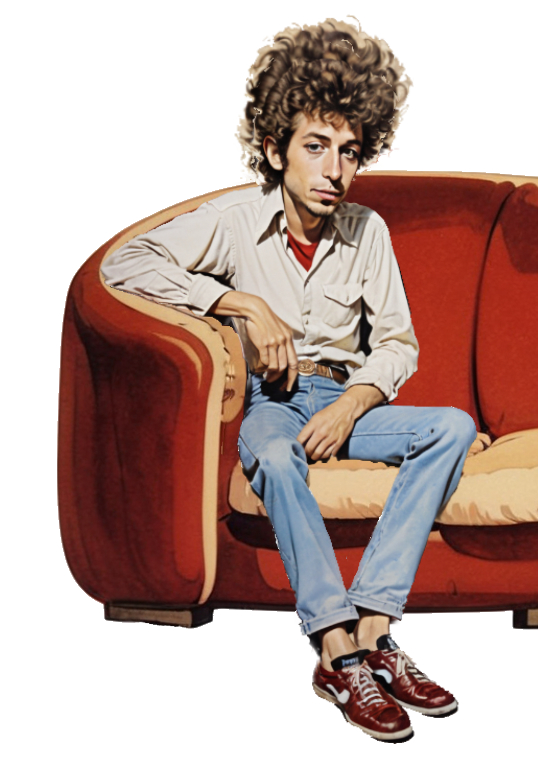
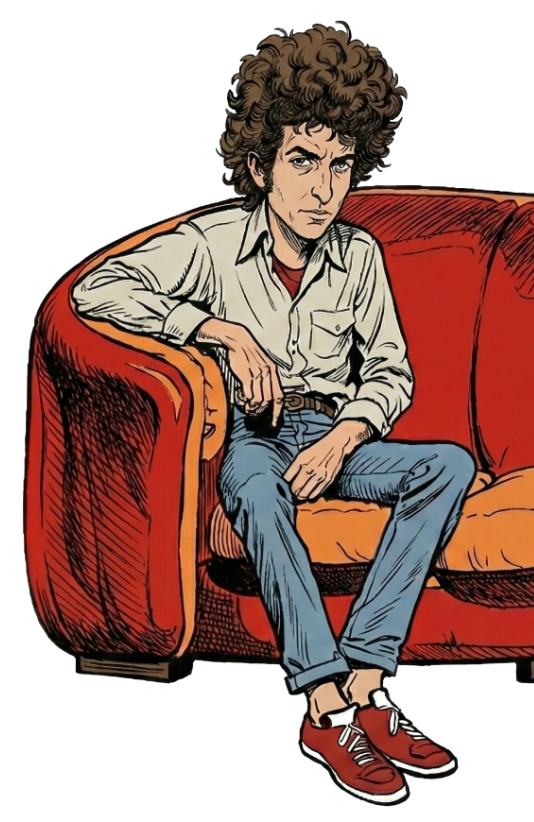
Updated artwork and movie poster version

diff --git a/README.md b/README.md
@@ -7,15 +7,15 @@ I discuss how the illustration reflects the key components of the song,
 discuss each of the various characters individually,
 and tell how the project was conceived and carried out.
 
-![Ballad of a Thin Man, © Paul Pritchard, 2023](Ballad_of_a_Thin_Man_medium.jpg)
+![Ballad of a Thin Man, © Paul Pritchard, 2026](Ballad_of_a_Thin_Man_medium.jpg)
 
 ## The setting
 
 The setting for the illustration is a party at [Andy Warhol's Factory](https://en.wikipedia.org/wiki/The_Factory)
 in New York City in the mid-1960s.
-The Factory was decorated in meth chic style, with walls covered in tin-foil and broken mirrors and Warhol's prints displayed on them,
+The Factory was decorated in meth chic style, with silver paint and tin-foil and mirrors,  Warhol's prints displayed on the walls,
 and a distinctive shabby curved red velvet couch.
-(The Factory's floor was concrete; I've used artistic license to have floorboards instead.)
+The Factory's floor was concrete.
 
 ## The song
 
@@ -73,7 +73,7 @@ His name is Martin Scorsese.
 
 ### Bob Dylan
 
-<img src="image/Bob_Dylan.jpg" align="left" width="150px" style="margin: 0px 10px 0px 0px;">
+<img src="image/Bob_Dylan.jpg" align="left" width="200px" style="margin: 0px 10px 0px 0px;">
 
 [Bob Dylan](https://en.wikipedia.org/wiki/Bob_Dylan) was born in 1941.
 He moved to New York City in 1961 to join the burgeoning folk scene.
@@ -87,7 +87,7 @@ In 2016, Dylan was awarded the Nobel Prize in Literature.
 
 ### Andy Warhol
 
-<img src="image/Andy_Warhol.jpg" align="left" width="150px" style="margin: 0px 10px 0px 0px;">
+<img src="image/Andy_Warhol.jpg" align="left" width="200px" style="margin: 0px 10px 0px 0px;">
 
 [Andy Warhol](https://en.wikipedia.org/wiki/Andy_Warhol) was born in 1928.
 He moved to New York City in 1949, and transitioned from being a commercial artist to a fine artist concentrating on printmaking,
@@ -100,18 +100,18 @@ Warhol died in 1987.
 
 ### Woody Allen
 
-<img src="image/Woody_Allen.jpg" align="left" width="150px" style="margin: 0px 10px 0px 0px;">
+<img src="image/Woody_Allen.jpg" align="left" width="200px" style="margin: 0px 10px 0px 0px;">
 
 [Woody Allen](https://en.wikipedia.org/wiki/Woody_Allen) was born in 1935, and is a native New Yorker.
 He started work writing comedy for tv and magazines, then did standup comedy,
 and then wrote, directed, and starred in movies from the late 1960s, for which he won many prestigious awards.
 His comedy persona was that of an anxious, insecure, intellectual nebbish, perfect for Mr Jones.
-At the age of 61 he married his partner's adopted daughter. They are still together.
+At the age of 61 he married his daughter. They are still together.
 <br clear="left">
 
 ### Albert Grossman
 
-<img src="image/Albert_Grossman.jpg" align="left" width="150px" style="margin: 0px 10px 0px 0px;">
+<img src="image/Albert_Grossman.jpg" align="left" width="200px" style="margin: 0px 10px 0px 0px;">
 
 [Albert Grossman](https://en.wikipedia.org/wiki/Albert_Grossman) was born in 1926.
 Bob Dylan was the most famous of many significant musical artists that he managed.
@@ -121,7 +121,7 @@ Grossman died in 1986, while flying on a Concorde.
 
 ### Leonard Bernstein
 
-<img src="image/Leonard_Bernstein.jpg" align="left" width="150px" style="margin: 0px 10px 0px 0px;">
+<img src="image/Leonard_Bernstein.jpg" align="left" width="200px" style="margin: 0px 10px 0px 0px;">
 
 [Leonard Bernstein](https://en.wikipedia.org/wiki/Leonard_Bernstein) was born in 1918.
 He moved to New York City in 1941, and lived there the rest of his life.
@@ -132,7 +132,7 @@ He died in 1990.
 
 ### Paul Simon
 
-<img src="image/Paul_Simon.jpg" align="left" width="150px" style="margin: 0px 10px 0px 0px;">
+<img src="image/Paul_Simon.jpg" align="left" width="200px" style="margin: 0px 10px 0px 0px;">
 
 [Paul Simon](https://en.wikipedia.org/wiki/Paul_Simon) was born in 1941, the same year as Bob Dylan.
 He is also considered one of the greatest singer-songwriters of his time, and has received numerous prestigious awards.
@@ -142,7 +142,7 @@ He claims to be 5 foot 3 inches.
 
 ### Joe Dallesandro
 
-<img src="image/Joe_Dallesandro.jpg" align="left" width="150px" style="margin: 0px 10px 0px 0px;">
+<img src="image/Joe_Dallesandro.jpg" align="left" width="200px" style="margin: 0px 10px 0px 0px;">
 
 [Joe Dallesandro](https://en.wikipedia.org/wiki/Joe_Dallesandro) was a nude model and Warhol "superstar" who appeared
 in several of Warhol's movies, such as the aptly titled *Flesh* and *Trash*.
@@ -154,7 +154,7 @@ This is disputed.
 
 ### Divine
 
-<img src="image/Divine.jpg" align="left" width="150px" style="margin: 0px 10px 0px 0px;">
+<img src="image/Divine.jpg" align="left" width="200px" style="margin: 0px 10px 0px 0px;">
 
 [Divine](https://en.wikipedia.org/wiki/Divine_(performer)) was the stage name of the drag queen alter ego of Harris Glenn Milstead.
 He was born in 1945, in Baltimore, where he became closely assocaited with the director John Waters, acting in many of his movies,
@@ -166,7 +166,7 @@ Here he stands in for someone who would not be out of place at a Warhol Factory 
 
 ### Robert Mapplethorpe
 
-<img src="image/Robert_Mapplethorpe.jpg" align="left" width="150px" style="margin: 0px 10px 0px 0px;">
+<img src="image/Robert_Mapplethorpe.jpg" align="left" width="200px" style="margin: 0px 10px 0px 0px;">
 
 [Robert Mapplethorpe](https://en.wikipedia.org/wiki/Robert_Mapplethorpe) was born in New York City in 1946.
 He was an art photographer best known for his black and white flower studies and controversial portraits documenting the gay kink scene.
@@ -177,7 +177,7 @@ He died in 1989.
 
 ### Patti Smith
 
-<img src="image/Patti_Smith.jpg" align="left" width="150px" style="margin: 0px 10px 0px 0px;">
+<img src="image/Patti_Smith.jpg" align="left" width="200px" style="margin: 0px 10px 0px 0px;">
 
 [Patti Smith](https://en.wikipedia.org/wiki/Patti_Smith) was also born in 1946.
 She moved to New York City in 1967, where she was a poet and performance artist, eventually morphing into a renowned rock singer.
@@ -187,7 +187,7 @@ She accepted the Nobel Prize for Literature on behalf of Bob Dylan.
 
 ### Lou Reed
 
-<img src="image/Lou_Reed.jpg" align="left" width="150px" style="margin: 0px 10px 0px 0px;">
+<img src="image/Lou_Reed.jpg" align="left" width="200px" style="margin: 0px 10px 0px 0px;">
 
 [Lou Reed](https://en.wikipedia.org/wiki/Lou_Reed) was born in 1942, and was a native New Yorker.
 He founded the famously influential band *The Velvet Underground* in 1965.
@@ -198,7 +198,7 @@ He died in 2013.
 
 ### Rico "Ratso" Rizzo
 
-<img src="image/Rico_Rizzo.jpg" align="left" width="150px" style="margin: 0px 10px 0px 0px;">
+<img src="image/Rico_Rizzo.jpg" align="left" width="200px" style="margin: 0px 10px 0px 0px;">
 
 Enrico Salvatore Rizzo was a fictional character, a sickly Italian-American low-life New York City hustler,
 in the movie *Midnight Cowboy* (1969).
@@ -209,7 +209,7 @@ Rico dies on a Greyhound bus on the way to Florida, in the arms of ...
 
 ### Joe Buck
 
-<img src="image/Joe_Buck.jpg" align="left" width="150px" style="margin: 0px 10px 0px 0px;">
+<img src="image/Joe_Buck.jpg" align="left" width="200px" style="margin: 0px 10px 0px 0px;">
 
 Joe Buck was a fictional character, a handsome young Texan self-declared stud, who moved to New York City as a male prostitute,
 in the movie *Midnight Cowboy* (1969).
@@ -218,7 +218,7 @@ He was played by [Jon Voight](https://en.wikipedia.org/wiki/Jon_Voight).
 
 ### Martin Scorsese
 
-<img src="image/Martin_Scorsese.jpg" align="left" width="150px" style="margin: 0px 10px 0px 0px;">
+<img src="image/Martin_Scorsese.jpg" align="left" width="200px" style="margin: 0px 10px 0px 0px;">
 
 [Martin Scorsese](https://en.wikipedia.org/wiki/Martin_Scorsese) was born in 1942, and is a native New Yorker.
 His entire working life has been devoted to cinema, and he is universally regarded as one of the preeminent directors of his time.
@@ -229,7 +229,7 @@ Subsequently, he made *Rolling Thunder Revue: a Bob Dylan Story by Martin Scorse
 
 ## The making of the artwork
 
-Since I have literally no visual imagination, I have to work hard to get ideas for my paintings.
+Since I have aphantasia (literally no visual imagination), I have to work hard to get ideas for my paintings.
 The advent of text-to-image generative AI therefore appealed to me as a source of visual inspiration,
 with the bonus that I could experience firsthand what I consider one of the greatest engineering feats of my former field of work,
 Computer Science.
@@ -237,9 +237,9 @@ Computer Science.
 Text-to-image starts with text, and lyrics of favorite songs appealed as a source.
 A painting based on Leonard Cohen's *Famous Blue Raincoat* turned out well.
 So I thought I'd try a more complex song.
-*Ballad of a Thin Man* appealed beacuse of its very inscrutability.
+*Ballad of a Thin Man* appealed because of its very inscrutability.
 I did not realize how challenging it would prove to be.
-I used the open-source Stable Diffusion on my own modest PC to generate prototype components of the illustration,
+I started with the open-source Stable Diffusion on my own modest PC to generate prototype components of the illustration,
 but did a lot of subsequent image manipulation and drawing using Affinity Photo and Procreate.
 Many thousands of images would have been generated as the artwork evolved.
 
@@ -249,9 +249,17 @@ Eventually, I decided the tone had to be satirical.
 With the cast of characters growing by the day, I settled on something like the Mad Magazine movie parodies of my youth in the 1960s,
 which had the virtue of belonging to the same time period as the song.
 
+When Nana Banana Pro was released I could finally achieve the results I imagined (non-visually!).
+
 So this artwork is intended as a tribute to that golden age of illustration,
 and in particular [Jack Davis](https://en.wikipedia.org/wiki/Jack_Davis_(cartoonist)),
 whose amazing vitality it unfortunately lacks.
 Hence the [Alfred E. Neuman](https://en.wikipedia.org/wiki/Alfred_E._Neuman) Warhol-style print on the wall.
 The subject of the other Warhol-style print is the sort of thing I imagine Jack Davis might have chosen,
 had he lived in our time.
+
+## The movie poster version
+
+Inspired by Jack Davis's great movie poster for "Its a Mad, Mad, Mad, Mad World", I adapted my cartoon in a similar fashion.
+
+![Ballad of a Thin Man, © Paul Pritchard, 2026](Ballad_of_a_Thin_Man_movie_poster_medium.jpg)
